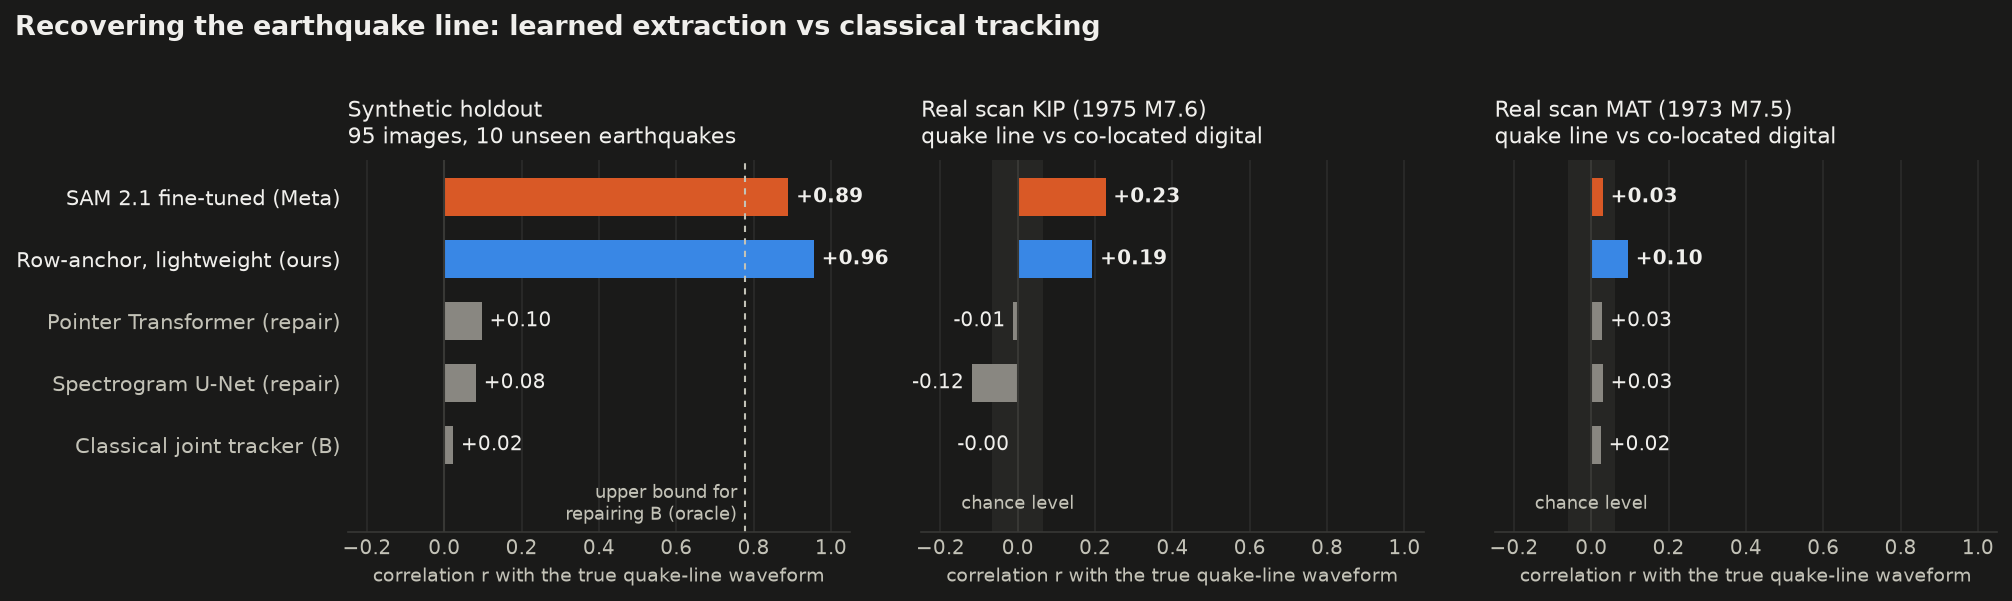
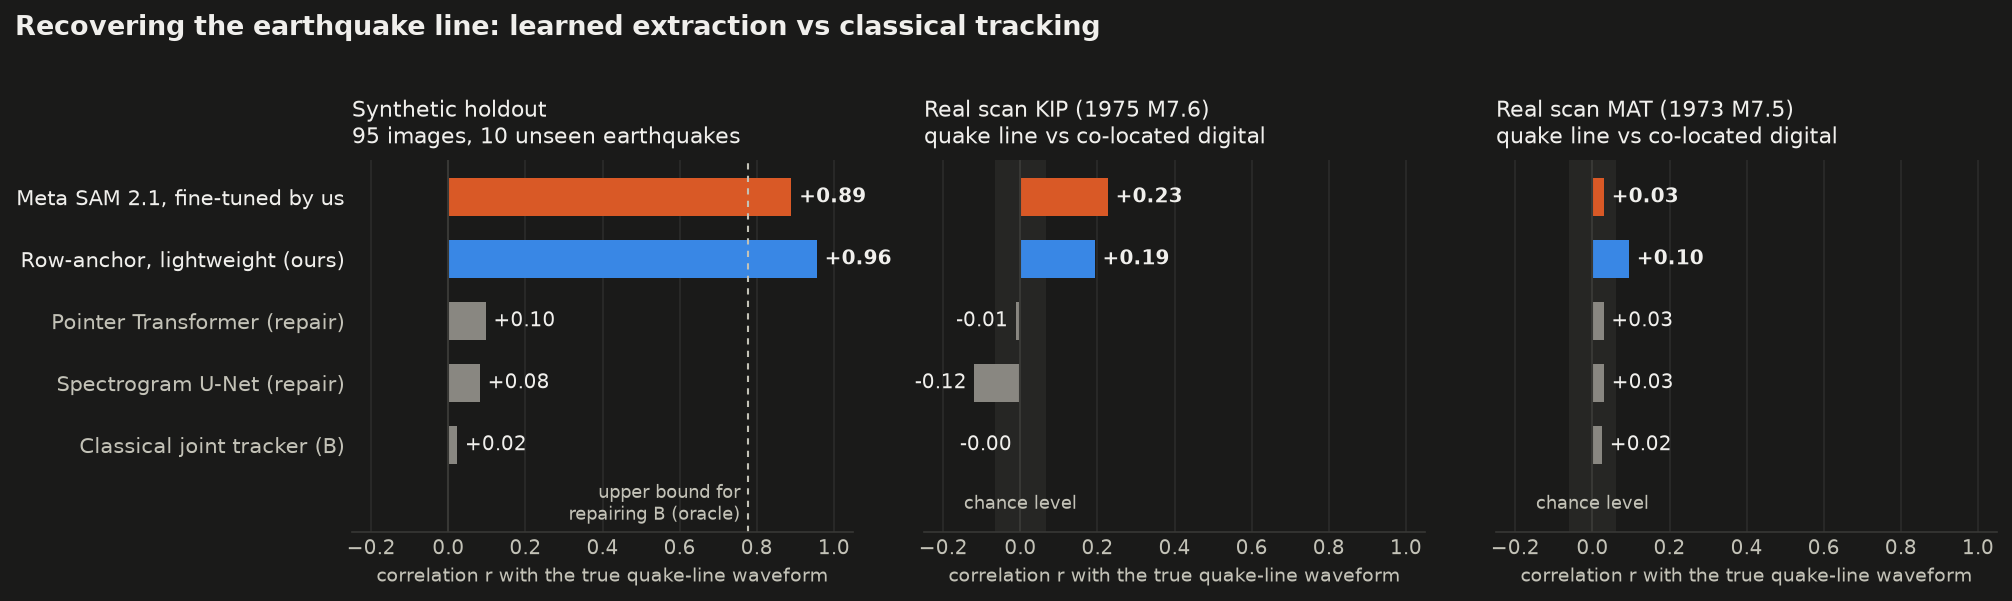
README, docs, charts: label SAM 2.1 as fine-tuned by us
Claude-Session: https://claude.ai/code/session_01D61mUAeaoMuS9bQ98T1FXu

diff --git a/tools/make_figures.py b/tools/make_figures.py
@@ -22,7 +22,7 @@ THEMES = {
     "dark": {"surface": "#1a1a19", "text": "#f0efec", "text2": "#c3c2b7", "muted": "#898781", "grid": "#2c2c2a",
              "axis": "#383835", "ra": "#3987e5", "sam": "#d95926", "glim": "#199e70", "band": "#262624"},
 }
-METHODS = [("sam21", "SAM 2.1 fine-tuned (Meta)", "sam"), ("row_anchor", "Row-anchor, lightweight (ours)", "ra"),
+METHODS = [("sam21", "Meta SAM 2.1, fine-tuned by us", "sam"), ("row_anchor", "Row-anchor, lightweight (ours)", "ra"),
            ("repair_seq", "Pointer Transformer (repair)", "muted"), ("repair_spec", "Spectrogram U-Net (repair)", "muted"),
            ("B", "Classical joint tracker (B)", "muted")]
 
@@ -86,7 +86,7 @@ def chart_amplitude(S, mode):
     t = THEMES[mode]
     syn = S["synthetic_holdout_quake_line"]
     gains = [1, 2, 4, 6, 8]
-    series = [("sam21", "SAM 2.1 fine-tuned (Meta)", "sam", "s"), ("row_anchor", "Row-anchor, lightweight (ours)", "ra", "o"),
+    series = [("sam21", "Meta SAM 2.1, fine-tuned by us", "sam", "s"), ("row_anchor", "Row-anchor, lightweight (ours)", "ra", "o"),
               ("B", "Classical joint tracker (B)", "muted", "D")]
     fig, axes = plt.subplots(1, 2, figsize=(12, 3.9), facecolor=t["surface"])
     for ax, key, ylab, lim in ((axes[0], "r", "quake-line correlation r", (-0.05, 1.05)),

diff --git a/README.md b/README.md
@@ -8,9 +8,9 @@
 **Turning tangled analog seismograms back into earthquake waveforms, with learned trace extraction and Meta's SAM.**
 
 <p align="center">
-  <img src="docs/img/sam21_holdout_example.png" width="920" alt="Fine-tuned Meta SAM 2.1 following the earthquake line through crossings on a synthetic WWSSN film; the classical tracker goes flat">
+  <img src="docs/img/sam21_holdout_example.png" width="920" alt="Meta's SAM 2.1, fine-tuned by us, following the earthquake line through crossings on a synthetic WWSSN film; the classical tracker goes flat">
 </p>
-<p align="center">🟩 <b>Ground truth</b>&nbsp;&nbsp;&nbsp;🟥 <b>SAM 2.1, fine-tuned (Meta)</b>&nbsp;&nbsp;&nbsp;🟦 <b>Best classical tracker</b></p>
+<p align="center">🟩 <b>Ground truth</b>&nbsp;&nbsp;&nbsp;🟥 <b>Meta SAM 2.1, fine-tuned by us</b>&nbsp;&nbsp;&nbsp;🟦 <b>Best classical tracker</b></p>
 <p align="center"><sub>Fresh holdout: an earthquake the models never saw (IU.MAJO, 2009-10-07 M7.7), swing of 4 line spacings.<br>SAM keeps the earthquake line through every crossing; the classical tracker loses it as soon as the crossings start.</sub></p>
 
 > [!IMPORTANT]
@@ -24,7 +24,7 @@
 - **Problem.** From 1962 to 1978 the World-Wide Standardized Seismograph Network (WWSSN) recorded the world's large earthquakes on photographic film. The USGS released the film-chip scans under CC0 in 2025. Automatic digitization breaks exactly where the signal matters most: the earthquake trace swings across many neighbouring lines, crosses them hundreds of times, and its steep strokes fade on the film.
 - **Benchmark.** We built synthetic WWSSN long-period films with exact per-line ground truth, from real recordings of 32 large earthquakes (M7.5–8.8). The geometry is calibrated to real film: 1 px/s, 1 h per line, 38 s of record per line spacing (real film: 40–47 s). We also found two real film scans with a digital station at the same site, which gives real ground truth.
 - **Result in simulation.** On a fresh holdout (95 images, 10 unseen earthquakes; each method tested once after freezing), learned extractors recover the earthquake line, measured as quake-line correlation r and failure rate:
-  - **Fine-tuned Meta SAM 2.1**: r **0.89**, failure **12.0%** (classical tracker: 55%).
+  - **Meta SAM 2.1, fine-tuned by us**: r **0.89**, failure **12.0%** (classical tracker: 55%).
   - Our lightweight **row-anchor model** (0.88 M parameters), the independent second opinion for SAM: r 0.96, failure 2.0%.
   - Best classical tracker: r 0.02, 55% failure.
   - Repairing the classical output afterwards, including with a spectrogram U-Net, does not work (r ≈ 0.1).
@@ -47,7 +47,7 @@
 
 | Method (quake line) | Synthetic holdout r | Synthetic failure % | Real KIP r | Real MAT r |
 |---|---|---|---|---|
-| **SAM 2.1 hiera-tiny, fine-tuned** (Meta open weights) | 0.89 | 12.0 | **0.23** | 0.03 |
+| **Meta SAM 2.1 hiera-tiny, fine-tuned by us** (open weights) | 0.89 | 12.0 | **0.23** | 0.03 |
 | **Row-anchor + Viterbi** (our lightweight second-opinion model, 0.88 M params) | **0.96** | **2.0** | 0.19 | **0.10** |
 | Pointer Transformer that repairs B's paths | 0.10 | 22.5 | −0.01 | 0.03 |
 | Spectrogram U-Net that repairs B's paths | 0.08 | 22.5 | −0.12 | 0.03 |
@@ -88,7 +88,7 @@ Both learned models stay at r ≥ 0.80 up to an 8-line-spacing swing. The classi
 <p align="center">🟥 <b>Row-anchor</b>&nbsp;&nbsp;&nbsp;🟦 <b>Classical B</b>&nbsp;&nbsp;&nbsp;🟧 <b>DP alignment tool</b>&nbsp;&nbsp;&nbsp;⬛ <b>Digital ground truth</b> (bottom plot)</p>
 <p align="center"><sub>Real film at Matsushiro (MAT), 1973-12-28 M7.5 Vanuatu earthquake. Top: scan with extracted paths. Bottom: truth from the co-located HGLP digital station.<br>The true swing is 4–6 line spacings; the model follows only part of it.<br>Scan: EarthScope film-chip product of the USGS WWSSN pilot scanning project, documented as part of the USGS CC0 release (not verified file by file). Reference: HG.MAT via EarthScope FDSN.</sub></p>
 
-| Real scan, r by line category | SAM 2.1 ft | Row-anchor | Classical B | DP alignment tool |
+| Real scan, r by line category | SAM 2.1 (our fine-tune) | Row-anchor | Classical B | DP alignment tool |
 |---|---|---|---|---|
 | MAT quake line (14) | 0.03 | **0.10** | 0.02 | −0.04 |
 | MAT neighbours (13, 15) | −0.04 | 0.04 | 0.02 | **0.08** |
@@ -114,7 +114,7 @@ What we believe limits real-film performance. These are hypotheses and are being
 | **Role in the pipeline** | Core trace extractor for every line; the lightweight row-anchor model stays as the independent second opinion | (1) **Identity verifier**: at each crossing where the extractors disagree, picks the true continuation or flags the segment for human review. (2) **Film-chip reader**: station, date, start time and clock corrections, to seed the time alignment |
 | **How** | LoRA at full resolution on SAM 3's single-image point-prompt path (code ready, tested with random weights); SAM 3.1, whose change is video multi-object tracking, is compared once its official training path is set up. Same frozen-holdout protocol as our SAM 2.1 run | QLoRA on unlimited crossing crops rendered from our benchmark and labelled by its exact ground truth |
 | **Why it needs Modal** | Full-resolution LoRA needs A100/H100-class memory | 4-bit weights are about 18 GB, more than our 16 GB GPU. QLoRA is documented for one H100 |
-| **Success criterion** | Beats fine-tuned SAM 2.1 (r 0.89) on a fresh holdout of unseen earthquakes; real-scan r reported | Verifier: higher record-level accuracy than our learned logistic judge on unseen earthquakes. Reader: field accuracy on hand-checked labels |
+| **Success criterion** | Beats our fine-tuned SAM 2.1 (r 0.89) on a fresh holdout of unseen earthquakes; real-scan r reported | Verifier: higher record-level accuracy than our learned logistic judge on unseen earthquakes. Reader: field accuracy on hand-checked labels |
 | **Budget (est.)** | ~$27: A100 80 GB, ~9 GPU-hours, 3 runs + evaluation | ~$48: H100 80 GB, ~11 GPU-hours, 2–3 runs + evaluation |
 
 The target pipeline puts Meta models in the critical path:
@@ -144,7 +144,7 @@ flowchart LR
   W["Real broadband records<br/>IRIS/EarthScope, IU + II<br/>32 earthquakes M7.5–8.8"] --> R["Film renderer<br/>1 h/line, 1 px/s, 38 px spacing,<br/>minute marks, fading, paper texture<br/><b>exact per-line ground truth</b>"]
   R --> T["Train / validate<br/>split by earthquake"]
   T --> RA["Row-anchor model (second opinion)<br/>CNN + Transformer over time,<br/>200 row bins/column + Viterbi"]
-  T --> S["SAM 2.1 fine-tune<br/>LoRA, point prompts,<br/>stitched windows + Viterbi"]
+  T --> S["SAM 2.1 fine-tune (ours)<br/>LoRA, point prompts,<br/>stitched windows + Viterbi"]
   RA --> H["Fresh holdout<br/>frozen, run once"]
   S --> H
   RA --> P["Real scans paired with<br/>co-located digital stations"]
@@ -155,7 +155,7 @@ flowchart LR
   P --> SP["Muse Spark seismologist agent<br/>(catalog, TauP, picks, report)"]
 ```
 
-- **SAM 2.1 fine-tune** ([`scripts/ml_sam.py`](scripts/ml_sam.py)).
+- **SAM 2.1 fine-tune** (our fine-tune of Meta's open weights; [`scripts/ml_sam.py`](scripts/ml_sam.py)).
   - The single-image path of SAM 2.1 hiera-tiny is re-implemented in plain PyTorch, and the official weights load with strict key and shape checks.
   - LoRA is applied to the trunk, and the mask decoder is trained.
   - Each window is the full height × 256 columns, resized to 1024². The first window is prompted with the start point; later windows get 4 points from the path decoded so far. A Viterbi pass stitches the windows.
@@ -178,7 +178,7 @@ flowchart LR
 |---|---|---|
 | **Muse Spark 1.3** (Meta Model API, `muse-spark-1.3-contributor`) | Tool-using seismologist agent over digitized traces: event catalog + TauP travel times, STA/LTA, AIC picker, plots. Also tested as an A/B judge at trace crossings. | Two independent runs agree on 93–94% of records; about $1.7 per 96-run pass. It **did not beat simple rules**: P-arrival within 10 s 0.67 vs 0.71 for theoretical travel times. As a crossing judge it fixed 34 and broke 60 events on the strongest judge (not significant at the record level, trend toward harm). Spark therefore orchestrates and reports; measurement is done by tools. |
 | **SAM 3.1** (Meta Model API) | Zero-shot trace segmentation | Fine on isolated lines. Returns **0 instances** in crops where lines touch 56–212 times. With one active line and 28–40 contacts it follows that line (≤ 0.2% failure) but drops the quiet lines (40–69% failure over all lines). |
-| **SAM 2.1 hiera-tiny** (open weights, Apache-2.0) | Fine-tuned promptable trace segmenter | Synthetic holdout r 0.89. Quake-line failure 55% → 12%. Real KIP r 0.23. |
+| **SAM 2.1 hiera-tiny** (open weights, Apache-2.0) | Promptable trace segmenter, fine-tuned by us | Synthetic holdout r 0.89. Quake-line failure 55% → 12%. Real KIP r 0.23. |
 | **SAM 3 / 3.1** (open weights, gated) | **Next (Modal): the core trace extractor.** LoRA fine-tune of SAM 3's single-image point-prompt path (code ready, tested with random weights); SAM 3.1 compared once its official training path is set up. Same frozen-holdout protocol as SAM 2.1 | Planned |
 | **Muse Glimmer** (open weights, 30B, image + text input, Apache-2.0) | **Next (Modal), two key roles.** (1) **Trace-identity verifier**: at every crossing where extractors disagree, Glimmer sees the candidate continuations drawn on the crop and picks the true one, or flags the segment for human review. It is QLoRA-trained on unlimited auto-labelled crossing crops from our benchmark, which has exact ground truth. (2) **Film-chip reader**: reads the station, date, start time and clock-correction labels to seed each scan's time alignment (in our real-scan evaluation the label times alone were not enough, so they initialise the fitted alignment), self-hosted for bulk digitization | Planned and untested. Zero-shot Spark did not help as a judge (fixed 34, broke 60), so we will train on exact labels instead. Glimmer is 18 GB even in 4-bit, so it needs an H100 |
 
@@ -203,7 +203,7 @@ flowchart LR
 | [`scripts/`](scripts) | All code: renderer, classical trackers and judges, learned models, real paired evaluation, Spark agent tools |
 | [`data/`](data) | Benchmark waveforms (miniSEED, IU/II) and event catalogue. See [data/README.md](data/README.md) for sources, licences and how to fetch the real scans |
 | [`results/`](results) | Result files: `early/` (first experiments), `early/multiagent/` (CV, holdouts, Spark runs), `ml/` (learned models, real paired eval, re-scoring) |
-| [`checkpoints/`](checkpoints) | Frozen row-anchor model (3.5 MB) and fine-tuned SAM 2.1 tiny (19 MB) with their frozen decode settings |
+| [`checkpoints/`](checkpoints) | Frozen row-anchor model (3.5 MB) and our fine-tuned SAM 2.1 tiny (19 MB) with their frozen decode settings |
 | [`docs/`](docs) | [RESULTS.md](docs/RESULTS.md) (all experiments, conditions and numbers), [METHODS.md](docs/METHODS.md), figures |
 | [`tools/`](tools) | Rebuild the README summary and charts from the result files |
 
@@ -236,7 +236,7 @@ python tools/collect_summary.py && python tools/make_figures.py   # rebuild READ
 ## Data and licences
 
 - Code: MIT ([LICENSE](LICENSE)).
-- The fine-tuned SAM 2.1 checkpoint is a derivative of Meta's SAM 2.1 (Apache-2.0).
+- Our fine-tuned SAM 2.1 checkpoint is a derivative of Meta's SAM 2.1 (Apache-2.0).
 - Waveforms: IRIS/EarthScope FDSN, networks IU ([doi:10.7914/SN/IU](https://doi.org/10.7914/SN/IU)) and II ([doi:10.7914/SN/II](https://doi.org/10.7914/SN/II)).
 - WWSSN film chip scans: USGS ([doi:10.5066/P13PHZMA](https://doi.org/10.5066/P13PHZMA), CC0 1.0) and the EarthScope film chip product ([doi:10.17611/DP/FC.1](https://doi.org/10.17611/DP/FC.1)); the MAT scan comes from the latter, which is documented as part of the CC0 release (not verified file by file). The KIP scan is a local copy from a mirror. Until we fetch it from the USGS CC0 release itself, this repository contains **no KIP image**, only metrics.
 - See [THIRD_PARTY_NOTICES.md](THIRD_PARTY_NOTICES.md).

diff --git a/docs/RESULTS.md b/docs/RESULTS.md
@@ -101,7 +101,7 @@ The agent's tools are catalog + TauP, STA/LTA, the AIC picker, peak finding and 
 
 Quake-line r / failure % by amplitude:
 
-| Gain | Row-anchor + Viterbi | SAM 2.1 fine-tuned | Classical B |
+| Gain | Row-anchor + Viterbi | SAM 2.1 (our fine-tune) | Classical B |
 |---|---|---|---|
 | 1 | 0.98 / 0.0 | 0.95 / 0.0 | 0.08 / 28.4 |
 | 2 | 0.99 / 0.0 | 0.95 / 1.5 | 0.02 / 39.0 |
@@ -153,7 +153,7 @@ Every model converged to the flat line's failure rate. The models learned to shr
 
 r_band / in / lost for each method:
 
-| Scan, lines | Row-anchor | SAM 2.1 ft | Classical B | DP alignment tool | Flat line |
+| Scan, lines | Row-anchor | SAM 2.1 (our fine-tune) | Classical B | DP alignment tool | Flat line |
 |---|---|---|---|---|---|
 | KIP quake (16) | 0.19 / 0.39 / 0.42 | **0.23** / 0.13 / 0.43 | −0.00 / 0.09 / 0.53 | 0.09 / 0.47 / 0.37 | – / 0.48 / 0.37 |
 | KIP neighbours | **0.17** / 0.40 / 0.38 | 0.12 / 0.41 / 0.38 | 0.02 / 0.18 / 0.40 | 0.14 / 0.42 / 0.38 | – / 0.41 / 0.38 |
